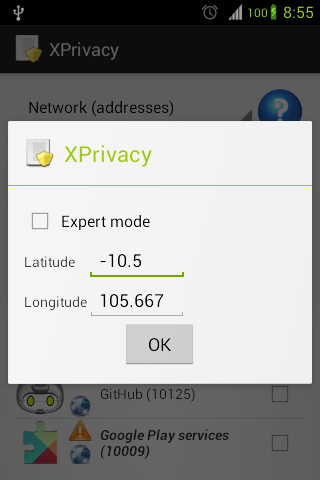
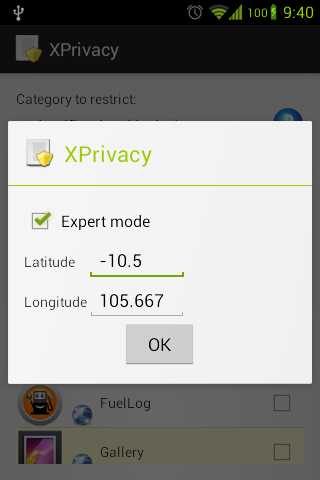
Update screenshots, add missing files

diff --git a/README.md b/README.md
@@ -89,6 +89,7 @@ Donate a few dollars for the [pro version](http://www.faircode.eu/xprivacy/) or
 ![Xposed](https://raw.github.com/M66B/XPrivacy/master/screenshots/xposed.png)
 ![Applications](https://raw.github.com/M66B/XPrivacy/master/screenshots/applications.png)
 ![Application](https://raw.github.com/M66B/XPrivacy/master/screenshots/application.png)
+![Expert](https://raw.github.com/M66B/XPrivacy/master/screenshots/expert.png)
 ![Help](https://raw.github.com/M66B/XPrivacy/master/screenshots/help.png)
 ![Settings](https://raw.github.com/M66B/XPrivacy/master/screenshots/settings.png)
 
